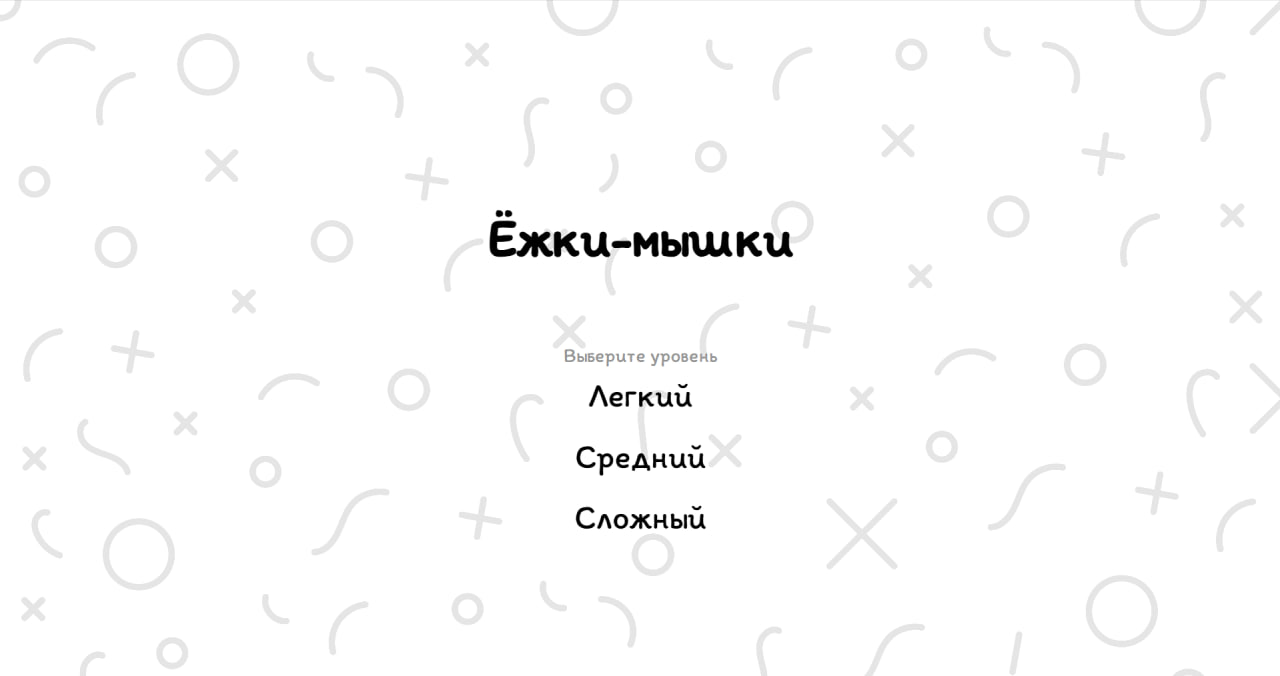
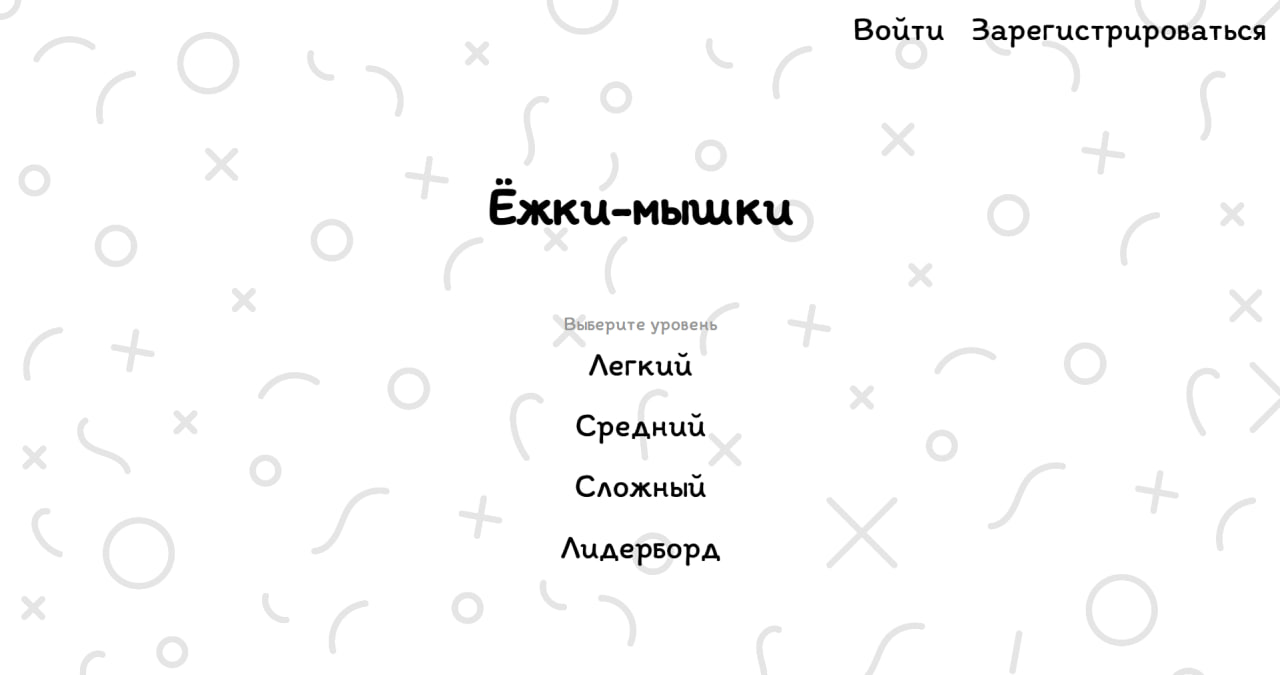
readme update

Changed region(s): [[0.4375, 0.4667, 0.5625, 0.84], [0.375, 0.2489, 0.625, 0.4044], [0.6562, 0.0311, 1.0, 0.0622]]

diff --git a/README.md b/README.md
@@ -1,33 +1,35 @@
-
 # 🧠 Memory Cards Game
 
-Интерактивная игра на запоминание, где игроку нужно находить пары одинаковых карточек. Разработана с анимацией, адаптивной версткой и прогрессивными уровнями сложности.
+Интерактивная игра на запоминание, где игроку нужно находить пары одинаковых карточек. Разработана с анимацией, адаптивной версткой, прогрессивными уровнями сложности, поддержкой авторизации и системы рекордов.
 
 ## 🚀 Функциональность
 
-- Адаптивное отображение для любого экрана
-- 3 уровня сложности: 12, 18 и 24 карточки  
-- Ограниченное количество жизней на уровне  
-- Анимация переворота карточек  
-- Плавные переходы между экранами  
-- Победа и поражение с возможностью переиграть уровень или перейти на следующий  
-- Случайная генерация карточек и цветов при каждой игре
+- 📱 Адаптивная вёрстка для любых экранов
+- 🧩 3 уровня сложности: 12, 18, 24 карточки
+- 💔 Ограниченное количество жизней
+- 🔁 Плавные переходы между экранами
+- 🎨 Генерация случайных карточек и цветов
+- 🔒 Авторизация через Firebase
+- 🧑💼 Личный кабинет и рекорды
+- 🏆 Лидерборд с фильтрацией по верификации
 
 ## 🛠 Технологии
 
-- HTML + CSS  
-- Vanilla JavaScript  
- 
-## 📸 Скриншоты
+* HTML + CSS
+* Vanilla JavaScript
+* Firebase (Authentication + Firestore)
+* Vite
+
+## 📈 Скриншоты
 
 <p align="center">
   <img src="./screenshots/screenshot1.jpg" width="100%" />
   <img src="./screenshots/screenshot2.jpg" width="100%" />
-  <img src="./screenshots/screenshot3.jpg" width="50%" />
+  <img src="./screenshots/screenshot3.jpg" width="45%" /><img src="./screenshots/screenshot4.jpg" width="45%" />  <img src="./screenshots/screenshot5.jpg" width="100%" />
 </p>
 
-## 💾 Установка и запуск
+## 
 
-1. Склонировать или скачать репозиторий  
-2. Открыть `index.html` в браузере  
-3. Начать с лёгкого уровня и пройти все 3 уровня подряд!
+## 🎮 Попробовать игру
+
+👉 [Запустить игру онлайн](https://memorycardsgame-6b7d9.web.app)  
